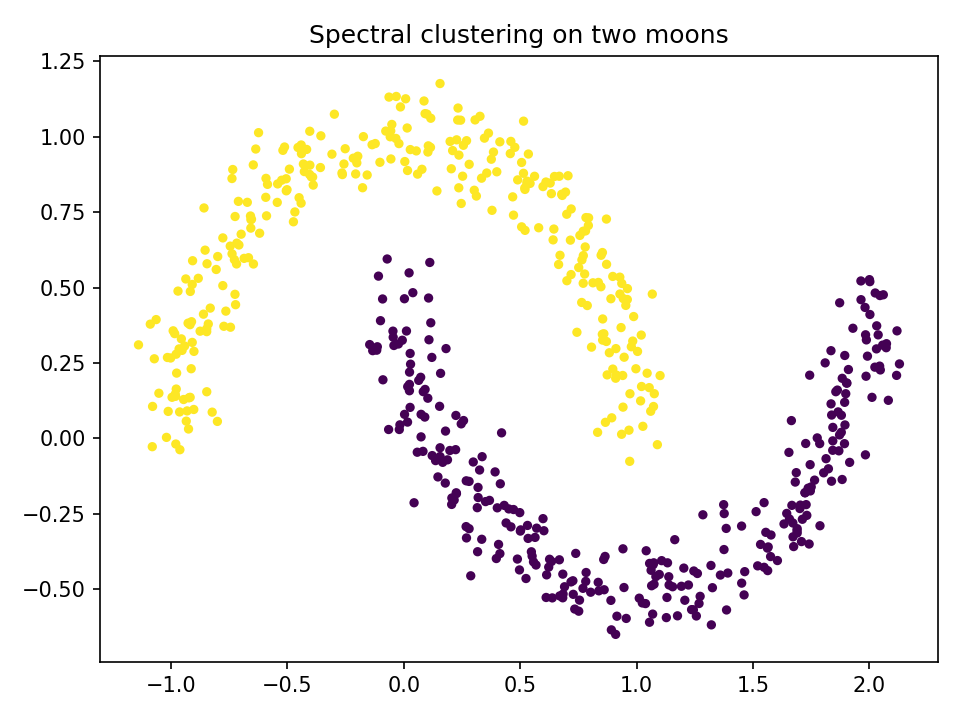
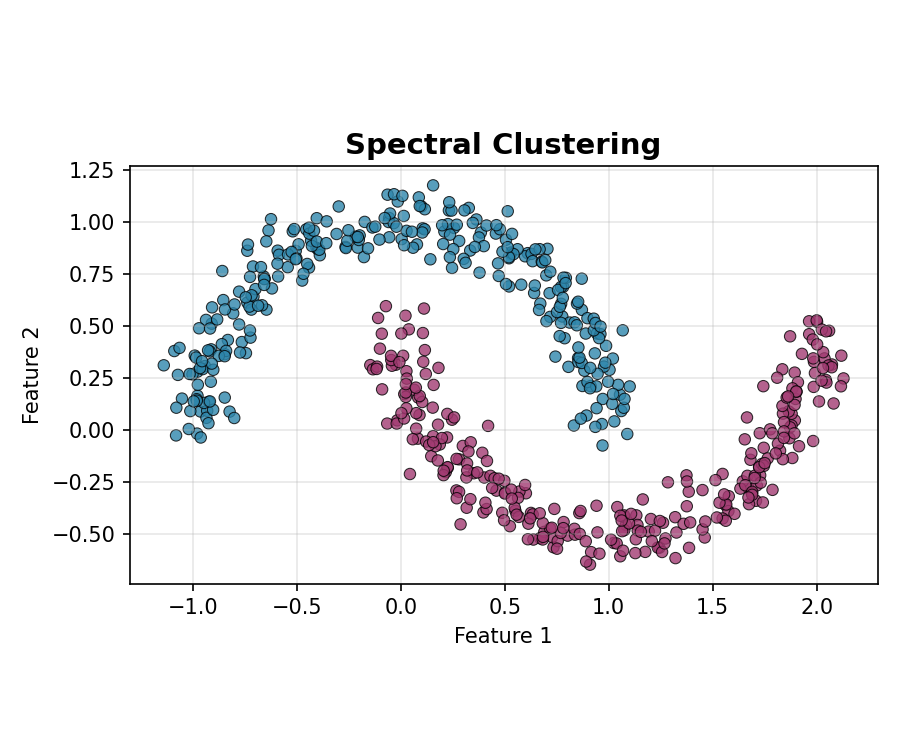
Improved quick_plot

diff --git a/src/quick_plot.py b/src/quick_plot.py
@@ -1,15 +1,181 @@
-# src/quick_plot.py
 import numpy as np
 import matplotlib
 matplotlib.use("Agg")
 import matplotlib.pyplot as plt
+from sklearn.cluster import KMeans, AgglomerativeClustering
+from sklearn.mixture import GaussianMixture
+
 
 X = np.load("data/X_moons.npy")
-labels = np.load("labels/labels_spectral_moons.npy")
+y_true = np.load("data/y_moons.npy")
+y_spectral = np.load("labels/labels_spectral_moons.npy")
 
-plt.figure()
-plt.scatter(X[:, 0], X[:, 1], c=labels, s=12)
-plt.title("Spectral clustering on two moons")
+# Recreates results of other models
+print("Regenerating clustering results for visualization...")
+y_kmeans = KMeans(n_clusters=2, n_init=10, random_state=0).fit_predict(X)
+y_gmm = GaussianMixture(n_components=2, covariance_type='full', random_state=0).fit_predict(X)
+y_agg = AgglomerativeClustering(n_clusters=2, linkage='single').fit_predict(X)
+
+
+fig, axes = plt.subplots(2, 3, figsize=(15, 10))
+fig.suptitle("Clustering Methods Comparison on Two Moons Dataset", fontsize=16, fontweight='bold')
+methods = [
+    ("Ground Truth", y_true, axes[0, 0]),
+    ("Spectral Clustering", y_spectral, axes[0, 1]),
+    ("K-Means", y_kmeans, axes[0, 2]),
+    ("Gaussian Mixture Model", y_gmm, axes[1, 0]),
+    ("Agglomerative (Single Link)", y_agg, axes[1, 1]),
+]
+colors = ['#2E86AB', '#A23B72']  # Blue and Purple
+cmap = matplotlib.colors.ListedColormap(colors)
+
+
+for title, labels, ax in methods:
+    # which cluster gets which label is arbitrary so take whichever performs
+    # better
+    accuracy1 = np.mean(labels == y_true)
+    accuracy2 = np.mean(labels == (1 - y_true))
+    if accuracy2 > accuracy1:
+        labels_plot = 1 - labels
+    else:
+        labels_plot = labels
+    
+    scatter = ax.scatter(X[:, 0], X[:, 1], c=labels_plot, s=20, 
+                        cmap=cmap, alpha=0.8, edgecolors='black', linewidth=0.5)
+    ax.set_title(title, fontsize=12, fontweight='bold')
+    ax.set_xlabel('Feature 1')
+    ax.set_ylabel('Feature 2')
+    ax.grid(True, alpha=0.3)
+    ax.set_aspect('equal', adjustable='box')
+
+ax_table = axes[1, 2]
+ax_table.axis('tight')
+ax_table.axis('off')
+
+import csv
+metrics_data = []
+with open("results/metrics.csv", 'r') as f:
+    reader = csv.reader(f)
+    headers = next(reader)
+    for row in reader:
+        metrics_data.append(row)
+
+
+table_data = [headers]
+for row in metrics_data:
+    formatted_row = [row[0]] + [f"{float(val):.3f}" for val in row[1:]]
+    table_data.append(formatted_row)
+
+cell_colors = [['lightgray'] * len(headers)]
+for row in metrics_data:
+    row_colors = ['white']
+    for val in row[1:3]:
+        if float(val) > 0.9:
+            row_colors.append('lightgreen')
+        elif float(val) > 0.5:
+            row_colors.append('lightyellow')
+        else:
+            row_colors.append('lightcoral')
+    row_colors.append('white')
+    cell_colors.append(row_colors)
+
+table = ax_table.table(cellText=table_data, cellColours=cell_colors,
+                      cellLoc='center', loc='center',
+                      colWidths=[0.3, 0.2, 0.2, 0.3])
+table.auto_set_font_size(False)
+table.set_fontsize(10)
+table.scale(1.2, 2)
+
+ax_table.set_title('Performance Metrics\n(Green=Good, Yellow=Moderate, Red=Poor)', 
+                   fontsize=12, fontweight='bold', pad=20)
+
+plt.tight_layout()
+plt.savefig("figs/all_methods_comparison.png", dpi=200, bbox_inches='tight')
+print("Saved: figs/all_methods_comparison.png")
+
+fig2, axes2 = plt.subplots(1, 3, figsize=(15, 5))
+fig2.suptitle("Disagreement Analysis: Points Where Methods Differ from Spectral", 
+              fontsize=14, fontweight='bold')
+
+comparisons = [
+    ("K-Means vs Spectral", y_kmeans, axes2[0]),
+    ("GMM vs Spectral", y_gmm, axes2[1]),
+    ("Agglomerative vs Spectral", y_agg, axes2[2])
+]
+
+for title, labels, ax in comparisons:
+    disagree1 = (y_spectral != labels)
+    disagree2 = (y_spectral != (1 - labels))
+    if disagree2.sum() < disagree1.sum():
+        disagreement = disagree2
+        labels_aligned = 1 - labels
+    else:
+        disagreement = disagree1
+        labels_aligned = labels
+    
+    colors_disagree = ['gray' if not d else 'red' for d in disagreement]
+    sizes = [15 if not d else 40 for d in disagreement]
+    
+    ax.scatter(X[:, 0], X[:, 1], c=colors_disagree, s=sizes, alpha=0.7)
+    ax.set_title(f"{title}\n({disagreement.sum()} points differ = {100*disagreement.mean():.1f}%)", 
+                fontsize=11)
+    ax.set_xlabel('Feature 1')
+    ax.set_ylabel('Feature 2')
+    ax.grid(True, alpha=0.3)
+    ax.set_aspect('equal', adjustable='box')
+
+plt.tight_layout()
+plt.savefig("figs/disagreement_analysis.png", dpi=200, bbox_inches='tight')
+print("Saved: figs/disagreement_analysis.png")
+
+print("\nGenerating individual method plots...")
+
+fig_spectral = plt.figure(figsize=(6, 5))
+
+if np.mean(y_spectral == (1 - y_true)) > np.mean(y_spectral == y_true):
+    y_spectral_plot = 1 - y_spectral
+else:
+    y_spectral_plot = y_spectral
+
+plt.scatter(X[:, 0], X[:, 1], c=y_spectral_plot, s=30, cmap=cmap,
+           alpha=0.8, edgecolors='black', linewidth=0.5)
+plt.title("Spectral Clustering", fontsize=14, fontweight='bold')
+plt.xlabel('Feature 1')
+plt.ylabel('Feature 2')
+plt.grid(True, alpha=0.3)
+plt.gca().set_aspect('equal', adjustable='box')
 plt.tight_layout()
 plt.savefig("figs/moons_spectral.png", dpi=150)
-print("Saved figs/moons_spectral.png")
+plt.close()
+print("Saved: figs/moons_spectral.png")
+
+for method_name, labels, full_name in [
+    ("kmeans", y_kmeans, "K-Means"),
+    ("gmm", y_gmm, "Gaussian Mixture Model"),
+    ("agg", y_agg, "Agglomerative (Single Link)")
+]:
+    fig_single = plt.figure(figsize=(6, 5))
+    
+    if np.mean(labels == (1 - y_true)) > np.mean(labels == y_true):
+        labels = 1 - labels
+    
+    plt.scatter(X[:, 0], X[:, 1], c=labels, s=30, cmap=cmap, 
+               alpha=0.8, edgecolors='black', linewidth=0.5)
+    plt.title(f"{full_name} Clustering Result", fontsize=14, fontweight='bold')
+    plt.xlabel('Feature 1')
+    plt.ylabel('Feature 2')
+    plt.grid(True, alpha=0.3)
+    plt.gca().set_aspect('equal', adjustable='box')
+    plt.tight_layout()
+    plt.savefig(f"figs/{method_name}_clustering.png", dpi=150)
+    plt.close()
+    print(f"Saved: figs/{method_name}_clustering.png")
+
+print("\nAll visualizations saved successfully!")
+print("\nFiles created:")
+print("  - figs/all_methods_comparison.png : Main comparison grid with metrics")
+print("  - figs/disagreement_analysis.png : Shows where methods differ from spectral")  
+print("  - figs/moons_spectral.png : Spectral clustering result")
+print("  - figs/kmeans_clustering.png : K-means result")
+print("  - figs/gmm_clustering.png : GMM result")
+print("  - figs/agg_clustering.png : Agglomerative result")
